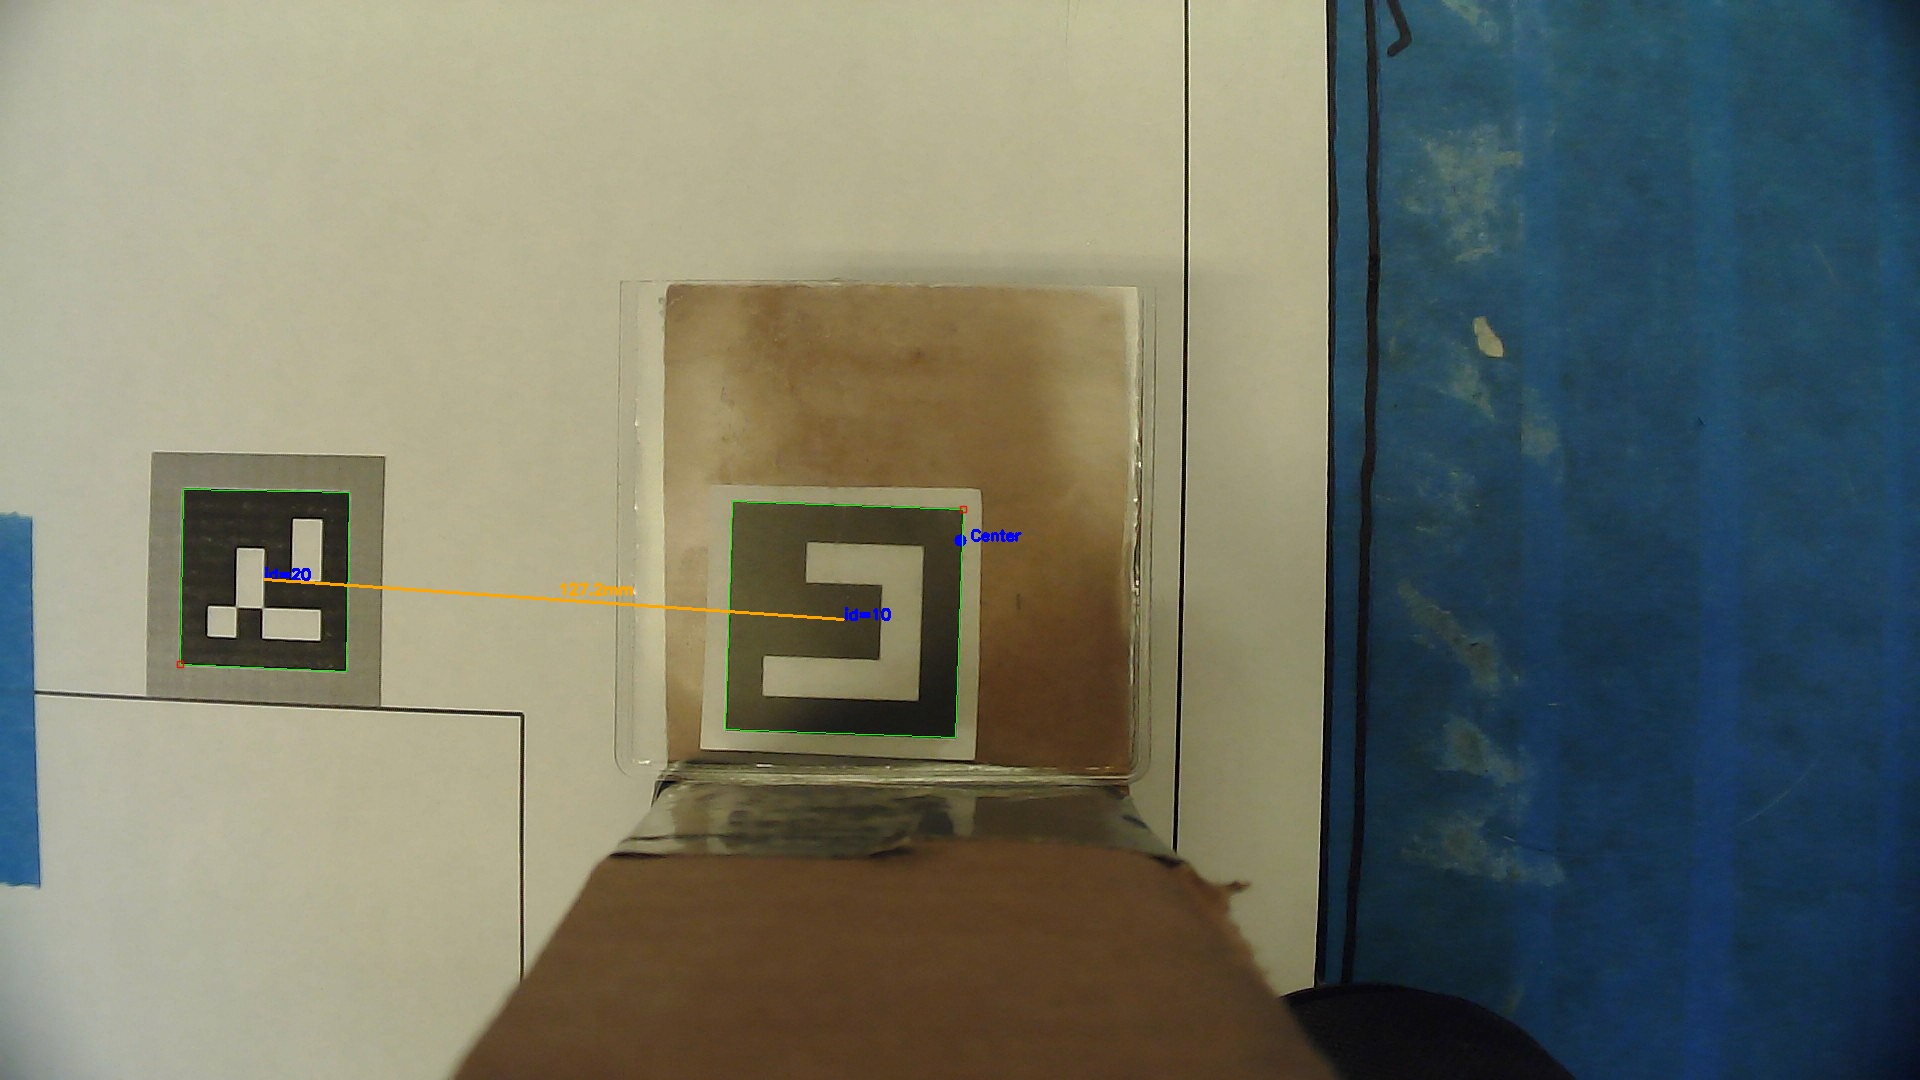
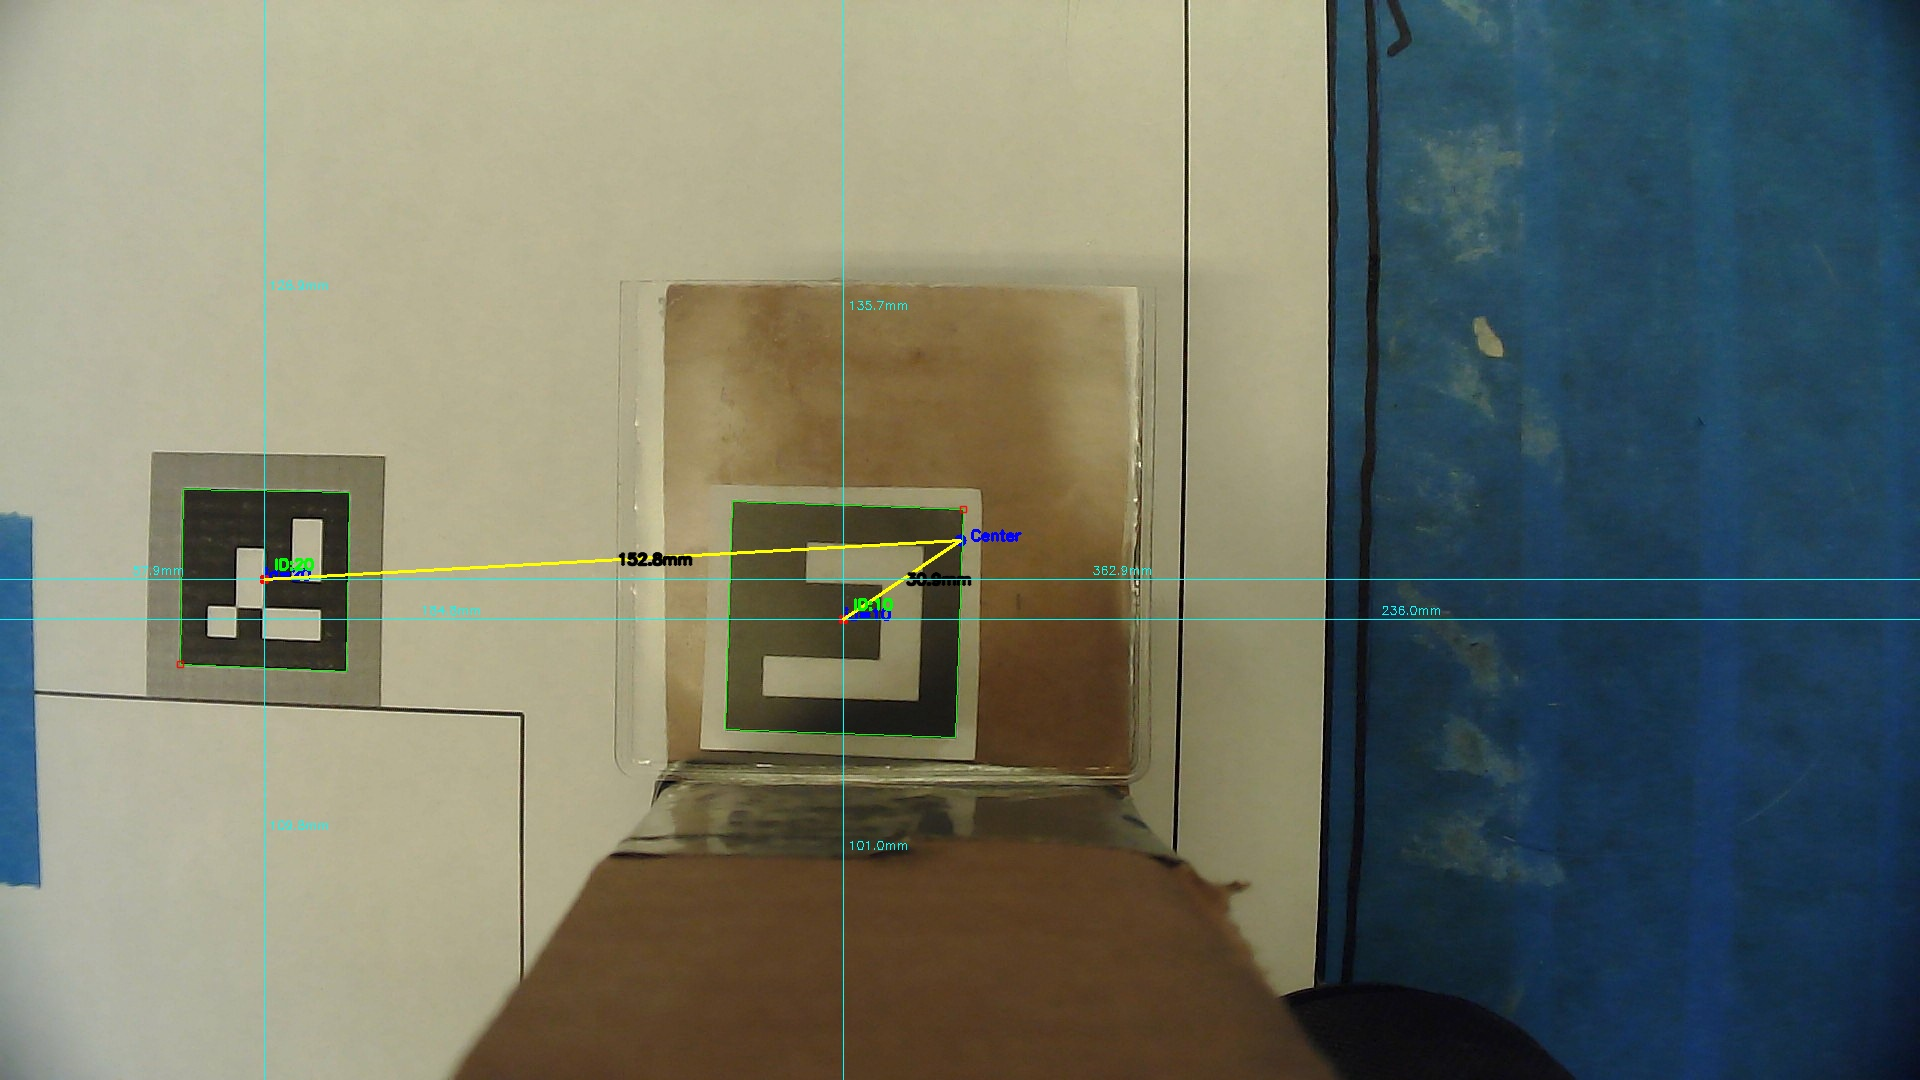
updated

diff --git a/ArucoMarkers/detect_aruco.py b/ArucoMarkers/detect_aruco.py
@@ -5,7 +5,7 @@ import cv2
 import numpy as np
 import argparse
 
-# ---- Ensure UTF-8 output for Windows terminals ----
+# --- Ensure UTF-8 output for Windows terminals ---
 sys.stdout.reconfigure(encoding='utf-8')
 
 # === ArUco setup ===
@@ -19,7 +19,7 @@ MARKER_SIZE_MM = 50  # Actual ArUco marker size in millimeters
 
 def measure_marker_to_marker_distance(frame, corners, ids, px_per_mm):
     """
-    Compute and visualize distances between each pair of detected markers.
+    Compute and visualize distances and angles between each pair of detected markers.
     Marker-to-marker line: yellow, text: black.
     """
     distances = {}
@@ -31,7 +31,7 @@ def measure_marker_to_marker_distance(frame, corners, ids, px_per_mm):
         cx, cy = int(pts[:, 0].mean()), int(pts[:, 1].mean())
         centers.append((marker_id, (cx, cy)))
 
-    # Compute all pairwise distances
+    # Compute all pairwise distances and angles
     for i in range(len(centers)):
         id1, (x1, y1) = centers[i]
         for j in range(i + 1, len(centers)):
@@ -40,15 +40,22 @@ def measure_marker_to_marker_distance(frame, corners, ids, px_per_mm):
             dist_px = np.hypot(x2 - x1, y2 - y1)
             dist_mm = dist_px / px_per_mm
 
+            # Calculate angle in degrees (relative to horizontal axis)
+            angle_rad = np.arctan2(y2 - y1, x2 - x1)
+            angle_deg = np.degrees(angle_rad)
+
             distances[(int(id1), int(id2))] = {
                 "pixels": round(dist_px, 2),
-                "millimeters": round(dist_mm, 2)
+                "millimeters": round(dist_mm, 2),
+                "angle_deg": round(angle_deg, 2)
             }
 
-            # Draw connecting line (yellow) and text (black)
+            # Draw connecting line (yellow)
             mid_x, mid_y = int((x1 + x2) / 2), int((y1 + y2) / 2)
             cv2.line(frame, (x1, y1), (x2, y2), (0, 255, 255), 2, lineType=cv2.LINE_AA)
-            cv2.putText(frame, f"{dist_mm:.1f}mm",
+
+            # Draw text showing distance and angle
+            cv2.putText(frame, f"{dist_mm:.1f}mm {angle_deg:.1f}°",
                         (mid_x + 5, mid_y - 5),
                         cv2.FONT_HERSHEY_SIMPLEX, 0.5, (0, 0, 0), 2, lineType=cv2.LINE_AA)
 
@@ -157,9 +164,10 @@ def detect_from_image(path, save_marked=True, return_marked=False, show=False, m
     annotated, distances = detect_and_draw(img, measure_between_markers=measure)
 
     if measure:
-        print("\n📐 Marker-to-Marker Distances:")
+        print("\n📐 Marker-to-Marker Distances and Angles:")
         for (id1, id2), dist in distances.items():
-            print(f"  Between {id1} ↔ {id2}: {dist['millimeters']:.2f} mm")
+            print(f"  Between {id1} ↔ {id2}: {dist['millimeters']:.2f} mm, "
+                  f"Angle: {dist['angle_deg']:.2f}°")
             offset = dist['millimeters']
     else:
         print("\n📏 Measured distances (marker-to-frame in mm):")
@@ -187,7 +195,7 @@ def detect_from_image(path, save_marked=True, return_marked=False, show=False, m
 def main():
     """CLI entry point."""
     parser = argparse.ArgumentParser(
-        description="Detect ArUco markers and measure distances (in mm)."
+        description="Detect ArUco markers and measure distances and angles (in mm & degrees)."
     )
     parser.add_argument("--image", required=True, help="Path to input image file.")
     parser.add_argument("--show", action="store_true", help="Display image window.")
@@ -197,13 +205,14 @@ def main():
                         help="Measure distances between marker centers instead of to frame edges.")
     args = parser.parse_args()
 
-    detect_from_image(
+    distance = detect_from_image(
         path=args.image,
         save_marked=not args.nosave,
         return_marked=args.returnimg,
         show=args.show,
         measure=args.measure
     )
+    print(distance)
 
 
 if __name__ == "__main__":
